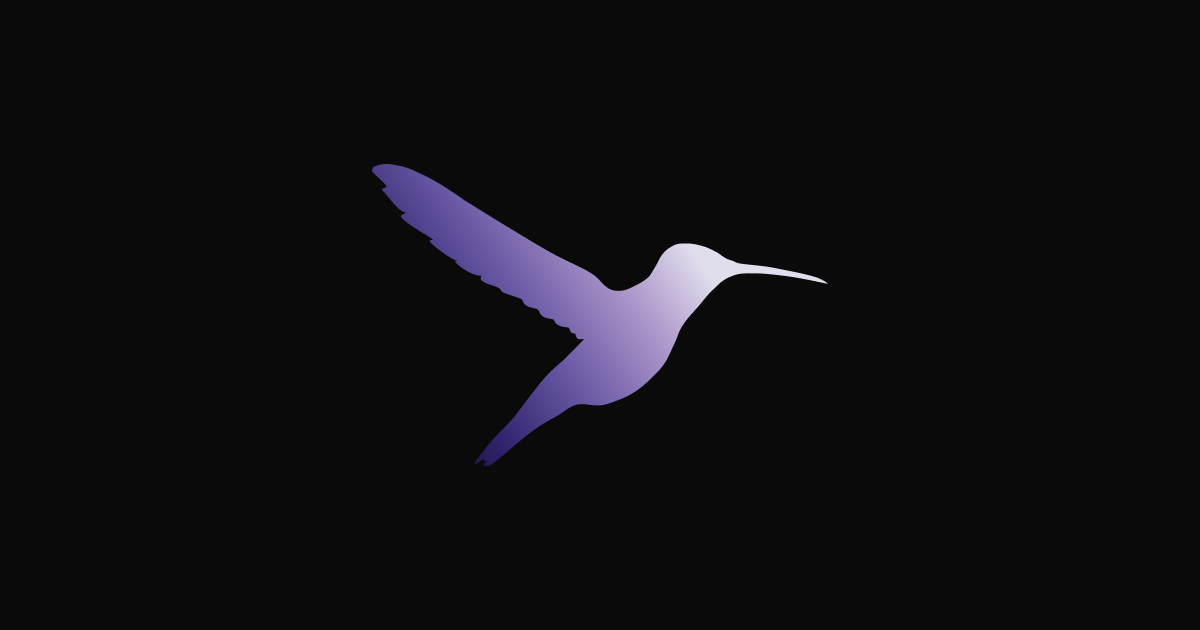
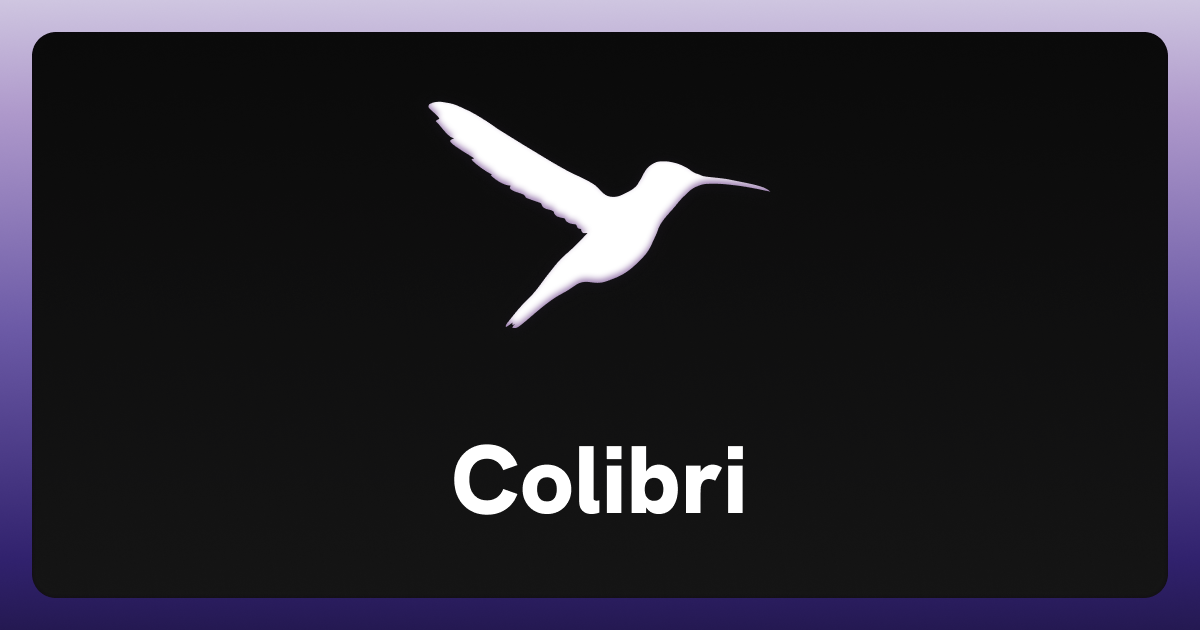
feat: Landing page work

Changed region(s): [[0.0, 0.0, 1.0, 1.0], [0.3083, 0.1508, 0.6783, 0.8143]]

diff --git a/src/styles/global.css b/src/styles/global.css
@@ -121,6 +121,7 @@
 }
 
 :root {
+	--gradient-dark: linear-gradient(180deg, #0a0a0a 0%, #151515 100%);
 	--background: oklch(1 0 0);
 	--foreground: oklch(0.145 0 0);
 	--card: oklch(1 0 0);
@@ -247,11 +248,61 @@
 		font-family: var(--font-sans);
 	}
 
+	.bg-gradient-dark {
+		background: var(--gradient-dark);
+	}
+
 	.rich-text img.emoji {
 		display: inline;
 		height: 1.125em;
 		width: 1.125em;
 		margin: 0 0.05em 0 0.1em;
 		vertical-align: text-top;
+	}
+
+	.floaty {
+		animation: 6s ease-in-out float infinite;
+	}
+
+	.hero-container::before {
+		content: "";
+		width: 100%;
+		height: 100%;
+		position: absolute;
+		top: 0;
+		left: 0;
+		z-index: -1;
+		opacity: 0.25;
+
+		--square-width: 4vw;
+		--square-1: calc(var(--square-width) - 2px);
+		--square-2: var(--square-width);
+
+		background-image:
+			repeating-linear-gradient(
+				0deg,
+				transparent,
+				transparent var(--square-1),
+				#353535 var(--square-1),
+				#353535 var(--square-2)
+			),
+			repeating-linear-gradient(
+				90deg,
+				transparent,
+				transparent var(--square-1),
+				#353535 var(--square-1),
+				#353535 var(--square-2)
+			);
+		background-size: var(--square-2) var(--square-2);
+	}
+}
+
+@keyframes float {
+	0%,
+	100% {
+		transform: translateY(15px);
+	}
+	50% {
+		transform: translateY(-15px);
 	}
 }

diff --git a/src/actions/auth/login.ts b/src/actions/auth/login.ts
@@ -6,11 +6,15 @@ import { client, scopes } from "@/utils/atproto/oauth";
 /**
  * Resolves a handle using bluesky as the resolver.
  * @param handle The handle to resolve.
+ * @param pds The domain of the PDS.
  * @returns The DID associated with the handle.
  */
-const resolveHandle = async (handle: string): Promise<string | undefined> => {
+const resolveHandle = async (
+	handle: string,
+	pds: string,
+): Promise<string | undefined> => {
 	const res = await fetch(
-		`https://bsky.social/xrpc/com.atproto.identity.resolveHandle?handle=${handle}`,
+		`https://${pds}/xrpc/com.atproto.identity.resolveHandle?handle=${handle}`,
 	);
 	const data = await res.json();
 	return data.did;
@@ -20,8 +24,9 @@ export const login = defineAction({
 	accept: "form",
 	input: z.object({
 		handle: z.string(),
+		pds: z.string().optional(),
 	}),
-	handler: async ({ handle }) => {
+	handler: async ({ handle, pds }) => {
 		try {
 			if (!isAtIdentifierString(handle)) {
 				return new ActionError({
@@ -30,7 +35,7 @@ export const login = defineAction({
 				});
 			}
 
-			const did = await resolveHandle(handle);
+			const did = await resolveHandle(handle, pds || "bsky.social");
 
 			if (!did) {
 				return new ActionError({

diff --git a/src/components/public/shared.ts b/src/components/public/shared.ts
@@ -1,0 +1,4 @@
+export type LinkData = {
+	text: string;
+	href: string;
+};
